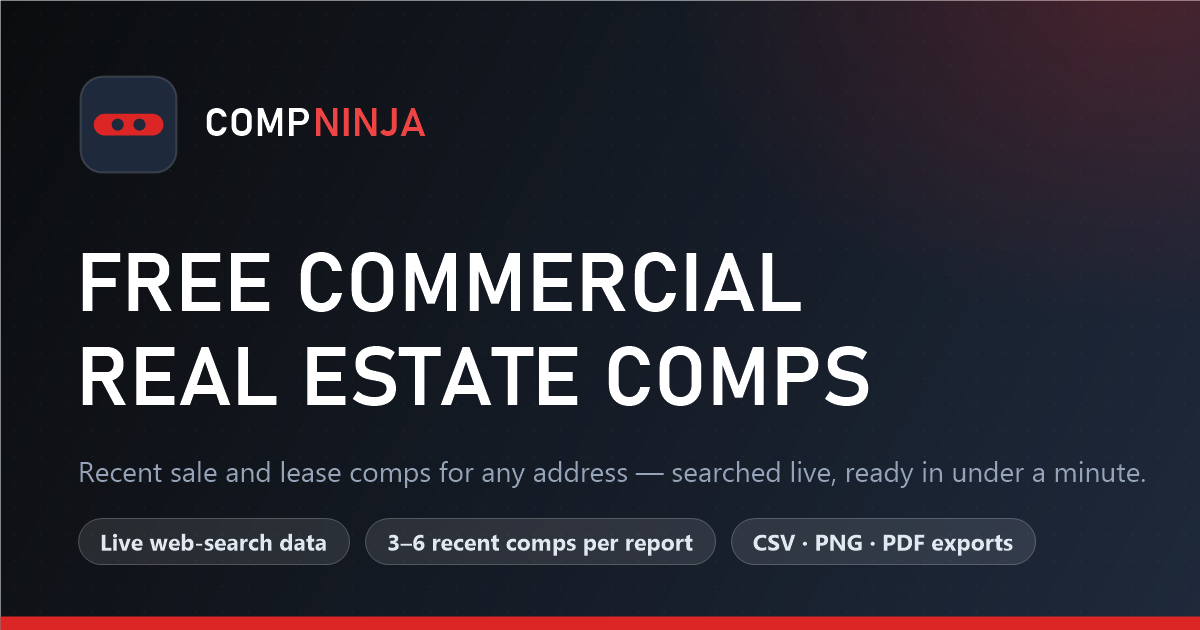
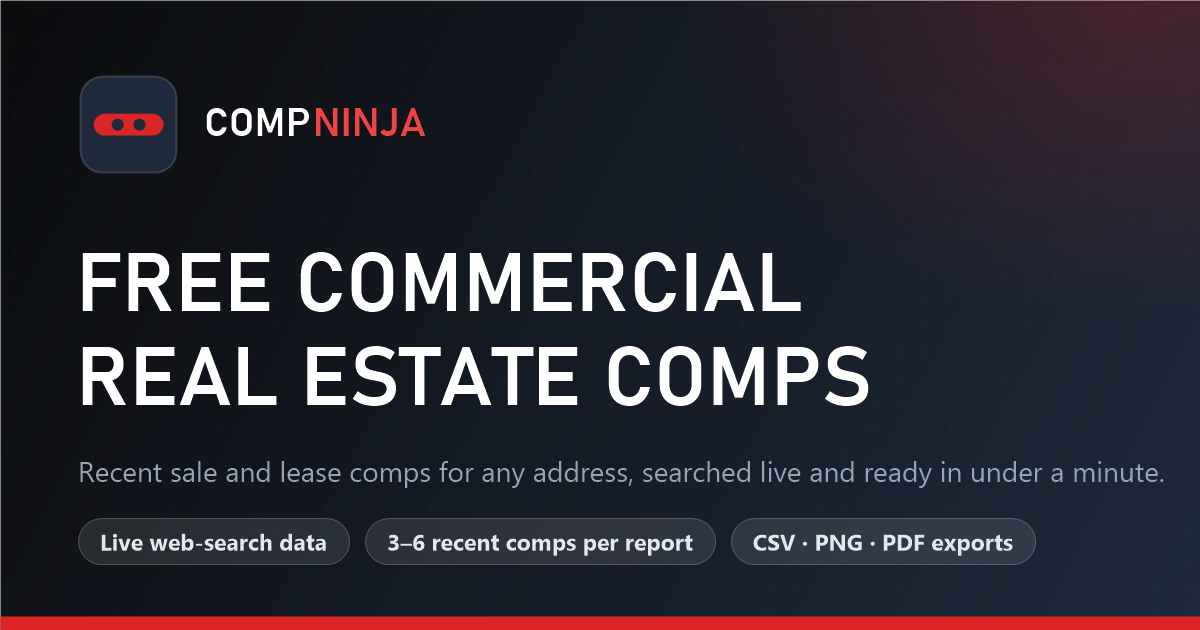
Remove em dashes from all user-facing text
- Footer blurb and the five server error messages rephrase with
  periods, commas, or colons
- og-image subline regenerated without the dash
- parseCompJson now scrubs any em dashes the model slips past the
  existing prompt rule: numeric ranges become hyphens, prose dashes
  become commas

Changed region(s): [[0.5242, 0.7238, 0.9558, 0.7841]]

diff --git a/server.js b/server.js
@@ -303,7 +303,23 @@ function parseCompJson(rawText) {
   if (first !== -1 && last !== -1 && last > first) {
     text = text.slice(first, last + 1);
   }
-  return JSON.parse(text);
+  return stripEmDashes(JSON.parse(text));
+}
+
+// Site style rule: no em dashes anywhere. The prompt already forbids them,
+// but models slip, so scrub every string in the parsed report. Numeric
+// ranges become hyphens; prose dashes become commas.
+function stripEmDashes(value) {
+  if (typeof value === "string") {
+    return value
+      .replace(/(\d)\s*—\s*(\$?\d)/g, "$1-$2")
+      .replace(/\s*—\s*/g, ", ");
+  }
+  if (Array.isArray(value)) return value.map(stripEmDashes);
+  if (value && typeof value === "object") {
+    for (const k of Object.keys(value)) value[k] = stripEmDashes(value[k]);
+  }
+  return value;
 }
 
 // ---------------------------------------------------------------------------
@@ -400,11 +416,11 @@ const server = http.createServer((req, res) => {
       try {
         // Password gate (only enforced when APP_PASSWORD is set).
         if (APP_PASSWORD && !passwordMatches(req.headers["x-app-password"])) {
-          return sendJson(res, 401, { error: "Unauthorized — incorrect or missing password." });
+          return sendJson(res, 401, { error: "Unauthorized: incorrect or missing password." });
         }
         if (rateLimited(clientIp(req))) {
           return sendJson(res, 429, {
-            error: "Too many searches from this connection — please wait a few minutes and try again.",
+            error: "Too many searches from this connection. Please wait a few minutes and try again.",
           });
         }
         const { address, type, note, months, maxComps, txFocus } = JSON.parse(body || "{}");
@@ -445,7 +461,7 @@ const server = http.createServer((req, res) => {
         // never eats into a visitor's search allowance — but the store can't
         // be spammed full either.
         if (rateLimited("lead:" + clientIp(req))) {
-          return sendJson(res, 429, { error: "Too many submissions — please try again later." });
+          return sendJson(res, 429, { error: "Too many submissions. Please try again later." });
         }
         const { name, email, phone, company, address, type } = JSON.parse(body || "{}");
         const clean = (v, max) => String(v || "").trim().slice(0, max);
@@ -467,7 +483,7 @@ const server = http.createServer((req, res) => {
       } catch (err) {
         if (err instanceof SyntaxError) return sendJson(res, 400, { error: "Bad request." });
         console.error("Failed to store lead:", err);
-        return sendJson(res, 500, { error: "Could not save your details — please try again." });
+        return sendJson(res, 500, { error: "Could not save your details. Please try again." });
       }
     });
     return;
@@ -491,7 +507,7 @@ const server = http.createServer((req, res) => {
     req.on("end", async () => {
       try {
         if (rateLimited("comp:" + clientIp(req))) {
-          return sendJson(res, 429, { error: "Too many submissions — please try again later." });
+          return sendJson(res, 429, { error: "Too many submissions. Please try again later." });
         }
         const b = JSON.parse(body || "{}");
         const clean = (v, max) => String(v || "").trim().slice(0, max);
@@ -523,7 +539,7 @@ const server = http.createServer((req, res) => {
       } catch (err) {
         if (err instanceof SyntaxError) return sendJson(res, 400, { error: "Bad request." });
         console.error("Failed to store comp submission:", err);
-        return sendJson(res, 500, { error: "Could not save the comp — please try again." });
+        return sendJson(res, 500, { error: "Could not save the comp. Please try again." });
       }
     });
     return;

diff --git a/index.html b/index.html
@@ -933,7 +933,7 @@
             </svg>
             <span class="font-brand uppercase text-lg font-semibold tracking-wide text-white">Comp<span class="text-brand-500">Ninja</span></span>
           </div>
-          <p class="text-sm leading-relaxed mt-3">Recent sale and lease comps for any commercial property — searched live, summarized, and export-ready in under a minute.</p>
+          <p class="text-sm leading-relaxed mt-3">Recent sale and lease comps for any commercial property. Searched live, summarized, and export-ready in under a minute.</p>
         </div>
         <div>
           <div class="text-xs font-semibold uppercase tracking-wider text-slate-500 mb-3">Explore</div>